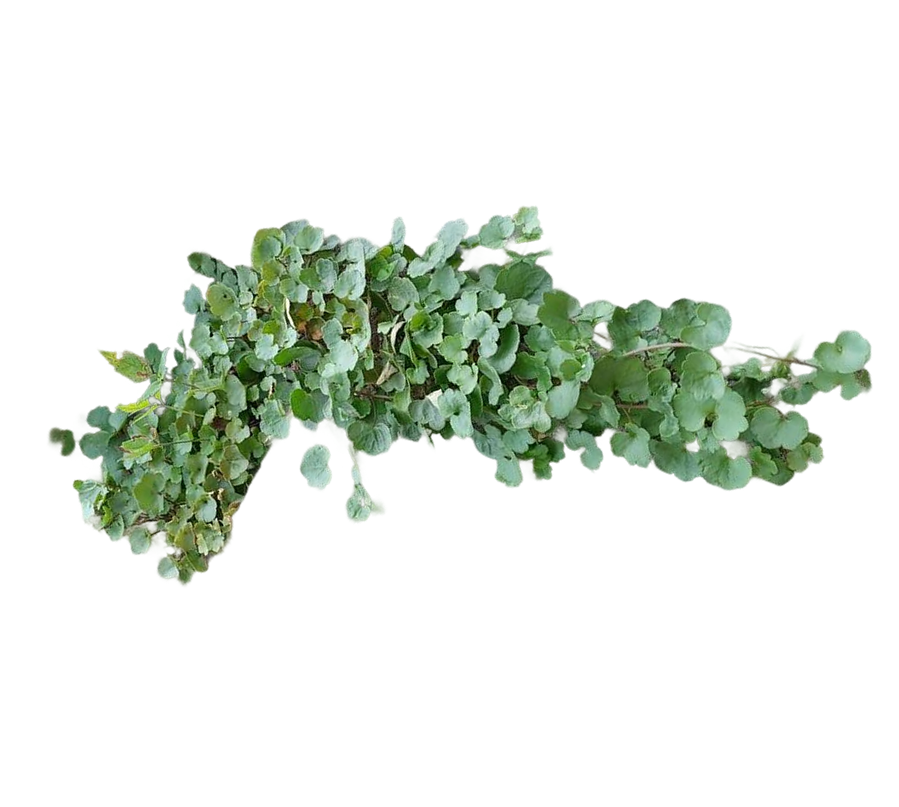
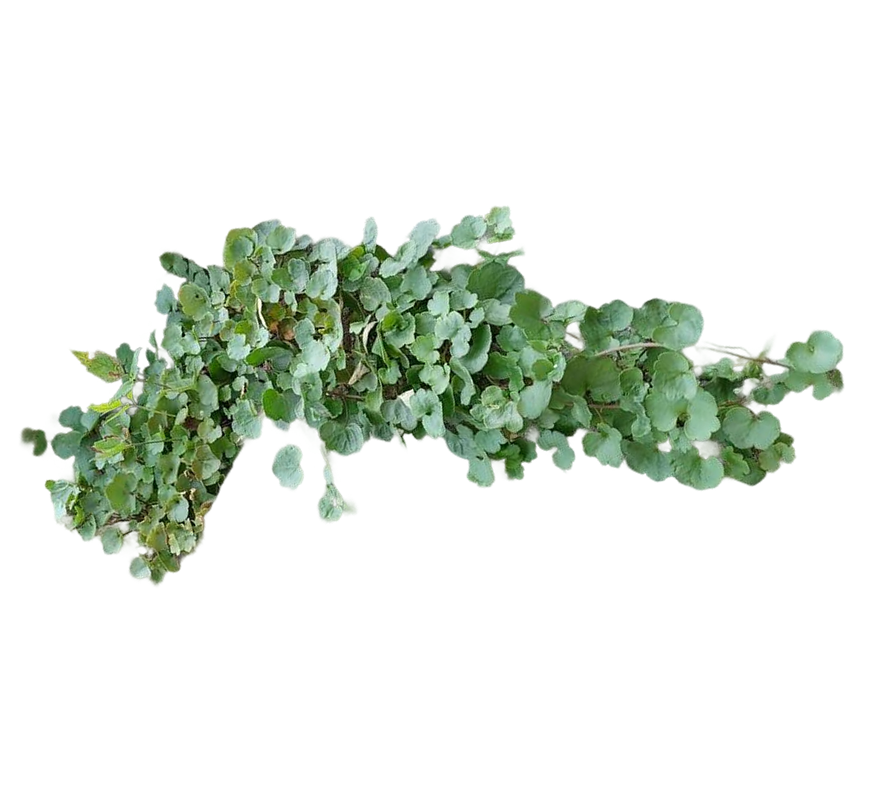
title

Changed region(s): [[0.0, 0.2478, 0.961, 0.7435]]

diff --git a/src/data/home-plants.tsx b/src/data/home-plants.tsx
@@ -1,0 +1,168 @@
+export type HomePlantId = 'about' | 'podcasts' | 'happenings' | 'study-group'
+
+export type HomePlantPosition = {
+  top: number
+  left: number
+  labelTop: number
+  labelLeft: number
+}
+
+export type HomePlant = {
+  id: HomePlantId
+  title: string
+  dialogTitle?: string
+  description: string | React.ReactNode
+  url: string
+  imageSrc: string
+  positionDesktop: HomePlantPosition
+  positionMobile: HomePlantPosition
+}
+
+export const HOME_PLANTS: HomePlant[] = [
+  {
+    id: 'about',
+    title: 'About',
+    imageSrc: '/plants/about-plant.png',
+    dialogTitle: 'Documenting Artistic Practices and Circulating Knowledge',
+    description: (
+      <>
+        Ruderal takes its name from the ecological term ruderal, derived from
+        the Latin rudus—rubble, debris, disturbed ground. In ecology, ruderal
+        species are plants that thrive in disrupted, abandoned or transitional
+        environments: wastelands, margins, cracks and interstitial spaces. They
+        grow where established orders begin to fragment, transforming sites of
+        rupture into fertile ground. Both indicators of change and agents of
+        resilience, they embody the capacity for new forms of life to emerge
+        within unstable conditions. Through their often temporary presence and
+        adaptive qualities, they open pathways for ongoing transformation,
+        preparing the ground for other forms of existence to appear and
+        flourish. They remind us that ecological balance is fluid, relational
+        and constantly in the making. Ruderal extends this ecological logic into
+        the social, cultural, technological and environmental realms.
+        <br />
+        <br />
+        Based in Geneva—a territory shaped by dense networks of knowledge,
+        practices, migrations, institutions and initiatives—the association
+        understands human and intellectual diversity as a living resource to be
+        activated. Rooted in everyday life and in a concrete place, Ruderal
+        operates within the interstices: between home and neighbourhood, between
+        institutions and vernacular uses, between ecology, creation and
+        transmission. At a moment when Geneva, like many other territories, is
+        experiencing profound transformations in social relations, technological
+        practices and modes of knowledge production, Ruderal seeks to contribute
+        to the emergence of formats and structures capable of accompanying these
+        shifts and opening renewed forms of coexistence and cooperation.
+        <br />
+        <br />
+        The association mobilises the simultaneous presence of multiple people,
+        disciplines and experiences to generate collective forms of
+        transmission, encounter and continuous learning. It operates as a
+        relational platform for social design and tactical activation, capable
+        of intervening in ways that are light, temporary, inclusive and
+        responsive. Like ruderal ecologies, Ruderal develops peripheral and
+        opportunistic practices: inhabiting margins, passages, temporary
+        situations and spaces of friction in order to generate new social and
+        cultural possibilities.
+      </>
+    ),
+    url: '',
+    className: 'h-54',
+    positionDesktop: {
+      top: 34.6,
+      left: 50.68,
+      labelTop: 38.45,
+      labelLeft: 46.41,
+    },
+    positionMobile: {
+      top: 29.6,
+      left: 40.68,
+      labelTop: 38.45,
+      labelLeft: 46.41,
+    },
+  },
+  {
+    id: 'podcasts',
+    title: 'Podcast',
+    dialogTitle: 'Documenting Artistic Practices and Circulating Knowledge',
+    description: (
+      <>
+        Ruderal produces and shares editorial and audio content emerging through
+        multidisciplinary artistic practices in conversation with other fields
+        of knowledge. Conceived as a platform for documentation and
+        transmission, the podcast programme gives visibility to creative
+        processes, critical reflections and situated experiences that often
+        remain outside final artistic outputs.
+        <br />
+        <br /> Through conversations, recordings and shared narratives, it
+        contributes to building accessible resources that support exchange,
+        reflection and public engagements across disciplines and communities.
+        Attentive to the conditions in which practices emerge, these
+        conversations assemble heterogeneous voices and temporalities,
+        generating a living archive of artistic inquiry and collective
+        imagination.
+      </>
+    ),
+    url: '/podcasts',
+    imageSrc: '/plants/podcasts-plant.png',
+    positionDesktop: {
+      top: 37.81,
+      left: 16.72,
+      labelTop: 38.91,
+      labelLeft: 16.72,
+    },
+    positionMobile: {
+      top: 42.81,
+      left: 16.72,
+      labelTop: 38.91,
+      labelLeft: 16.72,
+    },
+  },
+  {
+    id: 'happenings',
+    title: 'Happenings',
+    dialogTitle: 'Cultural participation and Territorial Cooperation',
+    description:
+      'Ruderal initiates collaborative projects and situated formats that strengthen connections between cultural actors, local contexts and diverse publics. Through participatory events, mediation practices and context-responsive interventions, the programme supports cultural participation and encourages forms of collective engagement rooted in specific territories. These gatherings create opportunities for encounter, dialogue and shared experiences while contributing to the development of sustainable cultural ecosystems',
+    url: '',
+    imageSrc: '/plants/happenings-plant.png',
+    positionDesktop: {
+      top: 60.85,
+      left: 50.22,
+      labelTop: 70.69,
+      labelLeft: 48.78,
+    },
+    positionMobile: {
+      top: 66.85,
+      left: 51.22,
+      labelTop: 70.69,
+      labelLeft: 48.78,
+    },
+  },
+  {
+    id: 'study-group',
+    title: 'Study group',
+    dialogTitle: 'Research, Learning and Collective Experimentation.',
+    description:
+      'Ruderal develops spaces dedicated to collective research, learning and experimentation, fostering continuous education and the circulation of knowledge. Bringing together practitioners, researchers and participants from diverse backgrounds, the study group supports the development of critical tools, professional exchange and collaborative forms of inquiry. Positioned at the intersection of artistic practice and knowledge production, it encourages transversal approaches and creates opportunities for long-term learning and capacity building.',
+    url: '',
+    imageSrc: '/plants/study-group-plant.png',
+    positionDesktop: {
+      top: 63.21,
+      left: 9.43,
+      labelTop: 70.24,
+      labelLeft: 14.81,
+    },
+    positionMobile: {
+      top: 68.21,
+      left: 13.43,
+      labelTop: 70.24,
+      labelLeft: 14.81,
+    },
+  },
+]
+
+export const HOME_VIEWBOX = { width: 1728, height: 1098 } as const
+
+export function getHomePlant(id: HomePlantId) {
+  return HOME_PLANTS.find((plant) => plant.id === id)
+}

diff --git a/src/components/home-plant-drawer.tsx b/src/components/home-plant-drawer.tsx
@@ -3,63 +3,106 @@ import { Link } from '@tanstack/react-router'
 import { ArrowRight, X } from 'lucide-react'
 import type { ReactNode } from 'react'
 
-import type { HomePlant } from '../data/home-plants'
+import {
+  HOME_PLANTS,
+  type HomePlant,
+  type HomePlantId,
+} from '../data/home-plants'
+import { cn } from '#/lib/cn'
 
 type HomePlantDrawerProps = {
   plant: HomePlant | null
   customContent?: ReactNode
   onOpenChange: (open: boolean) => void
+  onMenuClick: (id: HomePlantId) => void
 }
 
 function isInternalUrl(url: string) {
   return url.startsWith('/')
 }
 
+const TopMenu = (onClick: (id: HomePlantId) => void) => (
+  <div className="grid grid-cols-2 md:grid-cols-4 items-center  text-xs pr-10 gap-y-4">
+    {HOME_PLANTS.map((plant) => (
+      <button
+        onClick={() => onClick(plant.id)}
+        key={plant.id}
+        className={cn(
+          'flex items-center gap-[3px] px-3 cursor-pointer',
+          'hover:font-bold',
+          'whitespace-nowrap',
+        )}
+      >
+        <img src={plant.imageSrc} alt={plant.title} className="h-8" />
+        {plant.title}
+      </button>
+    ))}
+  </div>
+)
+
+
 export function HomePlantDrawer({
   plant,
   customContent,
   onOpenChange,
+  onMenuClick,
 }: HomePlantDrawerProps) {
   const title = plant?.dialogTitle ?? plant?.title ?? ''
   const moreUrl = plant?.url
 
   return (
-    <Dialog.Root open={plant !== null} onOpenChange={onOpenChange} modal={false}>
+    <Dialog.Root
+      open={plant !== null}
+      onOpenChange={onOpenChange}
+      modal={false}
+    >
       <Dialog.Portal>
         <Dialog.Content
-          className="home-plant-drawer-content"
+          className={cn(
+            'bg-white/70 backdrop-blur-sm',
+            'fixed right-0 top-0 bottom-0',
+            'w-[min(100vw,660px)]',
+            'p-4',
+            'flex flex-col gap-4',
+            'overflow-auto',
+          )}
           {...(!plant?.description ? { 'aria-describedby': undefined } : {})}
           onPointerDownOutside={(event) => event.preventDefault()}
           onInteractOutside={(event) => event.preventDefault()}
         >
-          <div className="home-plant-drawer-panel">
-            <Dialog.Close className="home-plant-drawer-close" aria-label="Close">
-              <X size={20} strokeWidth={1.5} />
-            </Dialog.Close>
+          <Dialog.Close className="home-plant-drawer-close" aria-label="Close">
+            <X size={20} strokeWidth={1.5} />
+          </Dialog.Close>
 
-            <Dialog.Title className="home-plant-drawer-title">{title}</Dialog.Title>
+          <TopMenu onClick={onMenuClick} />
 
-            {plant?.description ? (
-              <Dialog.Description asChild>
-                <p className="home-plant-drawer-description">{plant.description}</p>
-              </Dialog.Description>
-            ) : null}
+          <hr className="text-gray-300" />
+          <div className="inline-flex flex-col grow md:overflow-hidden">
+            <Dialog.Title className="font-bold mb-5 mt-3">{title}</Dialog.Title>
 
-            {customContent ? (
-              <div className="home-plant-drawer-custom">{customContent}</div>
-            ) : null}
+            <div className="grow md:overflow-y-auto">
+              {plant?.description ? (
+                <Dialog.Description asChild>
+                  <p className="">{plant.description}</p>
+                </Dialog.Description>
+              ) : null}
+
+              {customContent ? (
+                <div className="home-plant-drawer-custom">{customContent}</div>
+              ) : null}
+            </div>
 
             {moreUrl ? (
-              <div className="home-plant-drawer-footer">
+              <div className=" inline-flex justify-end pb-3 ">
                 {isInternalUrl(moreUrl) ? (
-                  <Link to={moreUrl} className="home-plant-drawer-more">
+                  <Link to={moreUrl} className="flex gap-2 items-center">
                     More
                     <ArrowRight size={16} strokeWidth={1.5} />
                   </Link>
                 ) : (
                   <a
                     href={moreUrl}
-                    className="home-plant-drawer-more"
+                    className="flex gap-2 items-center"
                     target="_blank"
                     rel="noopener noreferrer"
                   >

diff --git a/src/styles.css b/src/styles.css
@@ -10,6 +10,7 @@ html,
 body,
 #app {
   min-height: 100%;
+  font-size: 20px;
 
 }
 
@@ -177,7 +178,7 @@ body {
   top: 0;
   right: 0;
   z-index: 10001;
-  width: min(100vw, 520px);
+  width: min(100vw, 560px);
   height: 100vh;
   padding: 0;
   border: 0;
@@ -198,26 +199,12 @@ body {
   outline: none;
 }
 
-.home-plant-drawer-panel {
-  display: flex;
-  width: 100%;
-  height: 100%;
-  flex-direction: column;
-  gap: 1.25rem;
-  padding: 2rem;
-  border-left: 1px solid rgb(0 0 0 / 0.08);
-  background: #fff;
-  box-shadow: -12px 0 48px rgb(0 0 0 / 0.08);
-  overflow-y: auto;
-  font-family: 'Instrument Sans', sans-serif;
-  pointer-events: none;
-}
 
 .home-plant-drawer-panel :is(a, button) {
   pointer-events: auto;
 }
 
-.home-plant-drawer-close {
+  .home-plant-drawer-close {
   position: absolute;
   top: 1.25rem;
   right: 1.25rem;

diff --git a/src/routes/__root.tsx b/src/routes/__root.tsx
@@ -15,10 +15,15 @@ export const Route = createRootRoute({
         content: 'width=device-width, initial-scale=1',
       },
       {
-        title: 'TanStack Start Starter',
+        title: 'Ruderal',
       },
     ],
     links: [
+      {
+        rel: 'icon',
+        type: 'image/png',
+        href: '/favicon.png',
+      },
       {
         rel: 'stylesheet',
         href: appCss,
@@ -42,7 +47,7 @@ function RootDocument({ children }: { children: React.ReactNode }) {
         {children}
         <TanStackDevtools
           config={{
-            position: 'bottom-right',
+            position: 'bottom-left',
           }}
           plugins={[
             {

diff --git a/src/routes/index.tsx b/src/routes/index.tsx
@@ -90,6 +90,7 @@ function Home() {
           'relative min-h-screen h-screen w-full mx-auto bg-gray-300',
         )}
       >
+        <h1 className="text-5xl font-semibold fixed top-8 left-8">Ruderal</h1>
         <HomeSVG
           className="absolute w-full h-full"
           onClick={handlePlantClick}
@@ -98,6 +99,7 @@ function Home() {
           plant={selectedPlant}
           customContent={null}
           onOpenChange={handleDrawerOpenChange}
+          onMenuClick={handlePlantClick}
         />
       </main>
     </>